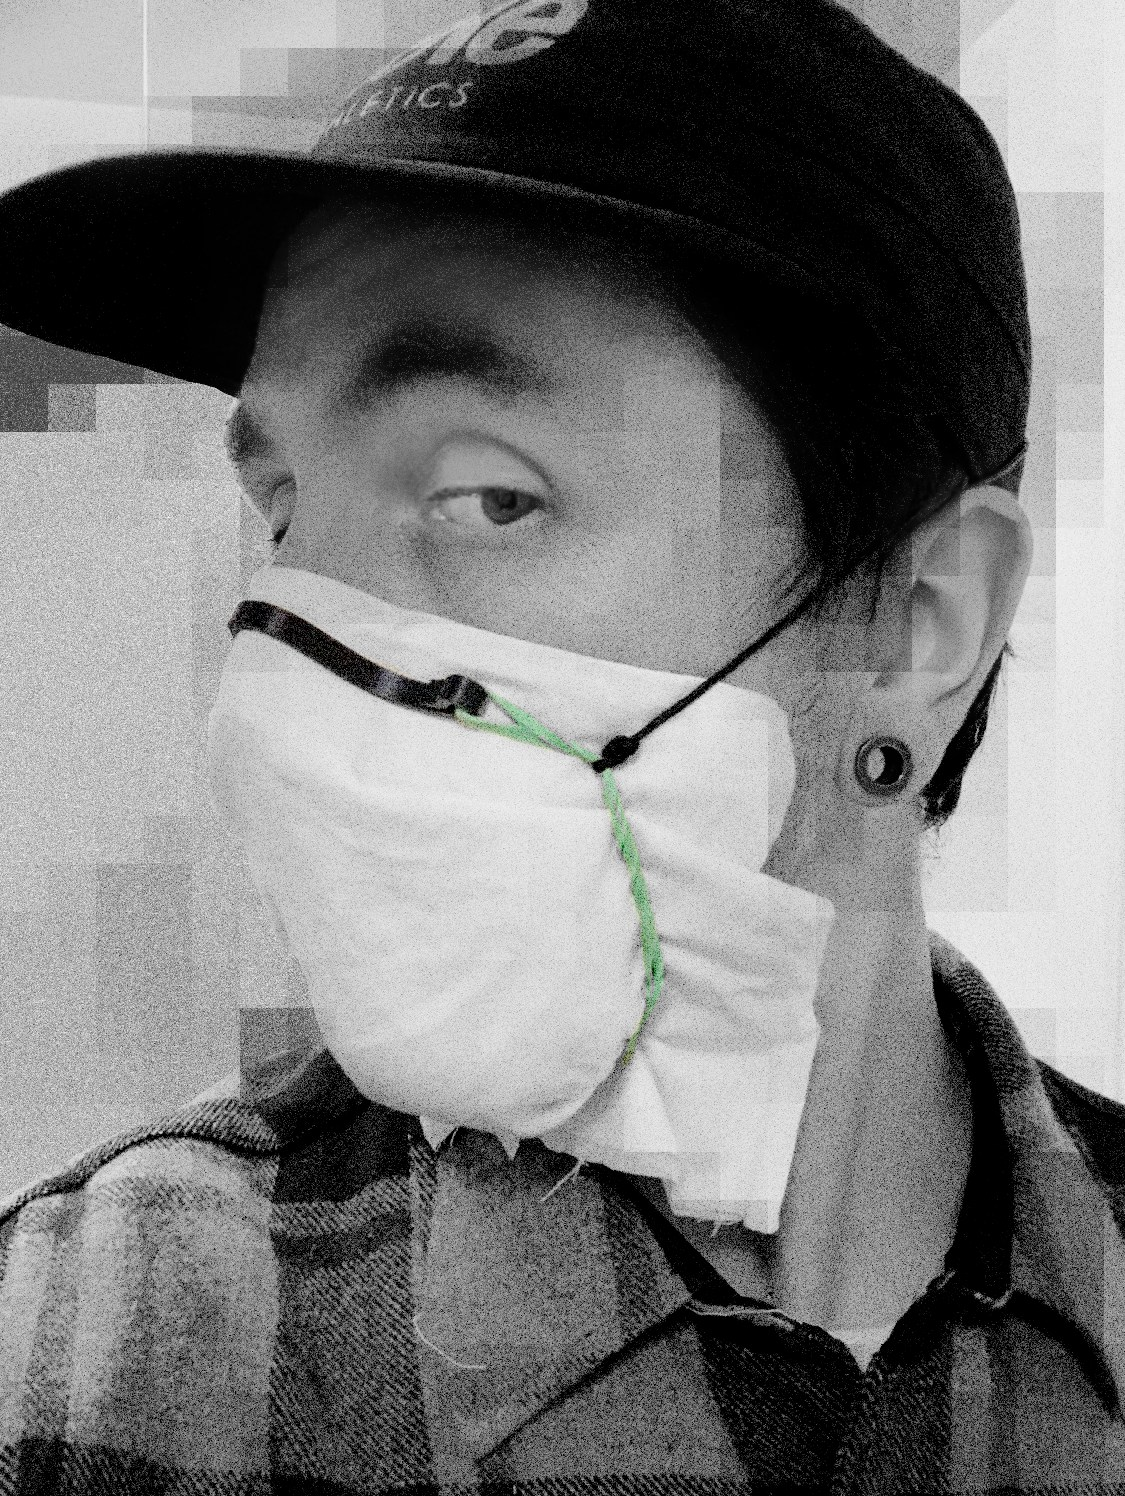
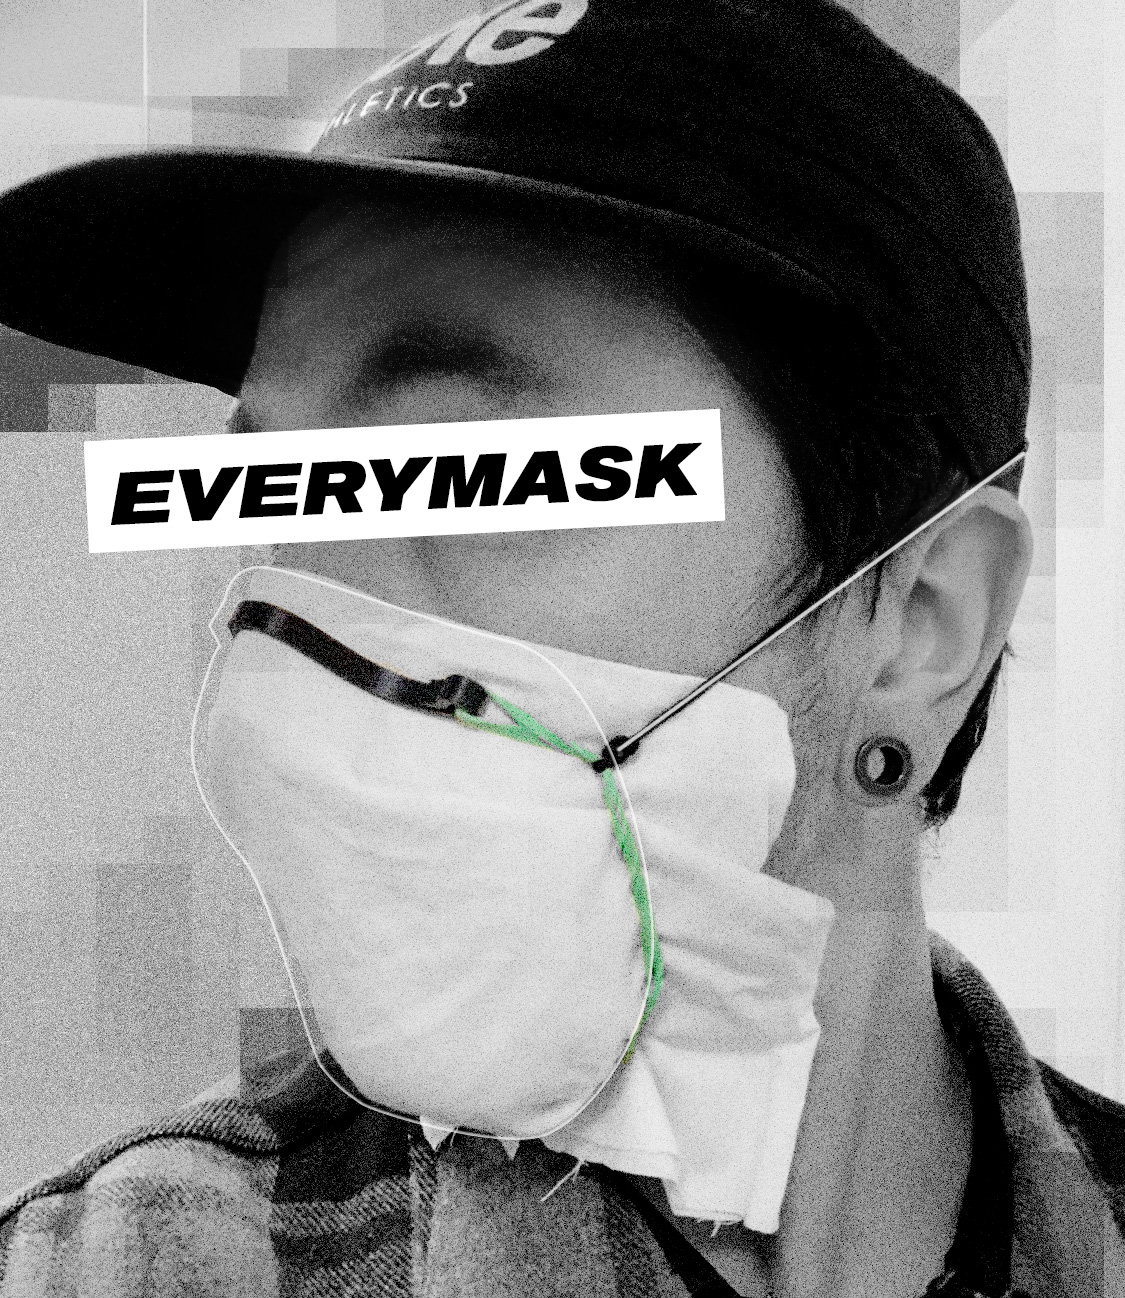
update hero

diff --git a/src/components/seo.js b/src/components/seo.js
@@ -27,7 +27,6 @@ function SEO({ description, lang, meta, title, image }) {
     `
   )
 
-  console.log(description)
   const metaDescription = description || site.siteMetadata.description
 
   return (

diff --git a/src/projects/2020-covid-mask.md b/src/projects/2020-covid-mask.md
@@ -39,7 +39,7 @@ And then we have a <a href="https://www.usnews.com/news/best-countries/articles/
 ## The Solution
 
 __EVERYMASK__ is a DIY mask that uses a custom harness to tightly fit a sheet of filter material to a person's face.
-It uses an adjustable headstrap to avoid ear fatigue and a custom-formed nose piece spreads tension across more of the nose and cheeks vs creating sores on the bridge.
+It uses an adjustable headstrap to avoid ear fatigue and a custom-formed nose piece spreads tension across more of the nose and cheeks vs creating sores on the bridge. By using an elastic loop around the face and pulling it in using the head strap a better seal is created.
 
 After use the filter material can be easily disposed of or washed without the wearer having to touch the potentially contaminated filter material.
 
@@ -67,7 +67,7 @@ To complete both versions you will also need:
 
 ![EVERYMASK Nose Piece](../images/everymask-nosepieces.jpg "EVERYMASK Nose Pieces")
 
-__1.1__ Using <a href="https://drive.google.com/file/d/17aeMhx-E7hsK5P1fRn87Dsu_-CW0uVBk/view?usp=sharing" target="_blank">the template</a> as a guide, snip an 80 cm (~4 inch) piece of stiff wire from the hanger. Note: the template was designed around my own nose which is quite narrow and pointy, so be prepared to tweak it to fit yours.
+__1.1__ Using <a href="https://drive.google.com/file/d/17aeMhx-E7hsK5P1fRn87Dsu_-CW0uVBk/view?usp=sharing" target="_blank">the template</a> as a starting guide, snip an 80 cm (~4 inch) piece of stiff wire from the hanger. Note: the template was designed around my own nose which is quite narrow and pointy, so be prepared to tweak it to fit yours.
 
 ![EVERYMASK Harness Build Hanger Wire](../images/everymask-step1.1-coat-hanger.jpg "EVERYMASK Harness Build Hanger Wire")
 
@@ -135,7 +135,7 @@ Reach out with any questions, comments or improvements in the comments section b
 
 You can view my <a href="https://www.instagram.com/stories/highlights/17887213792507206/" target="_blank">Instagram stories</a> to see how this project developed.
 
-I am offering this for free but if you'd like to help me pay for a haircut once this is all over tips are graciously accepted via <a href="https://paypal.me/roowilliams12" target="_blank">PayPal</a> :)
+I am offering this for free but if you'd like to help me pay for a haircut once this is all over tips are graciously accepted via <a href="https://paypal.me/roowilliams12" target="_blank">PayPal</a>. 
 
 ## This page is a work in progress.
 #### It is being updated daily so please bookmark it and periodically check for complete build instructions and improvements. Please share using the social buttons in the comments below.
